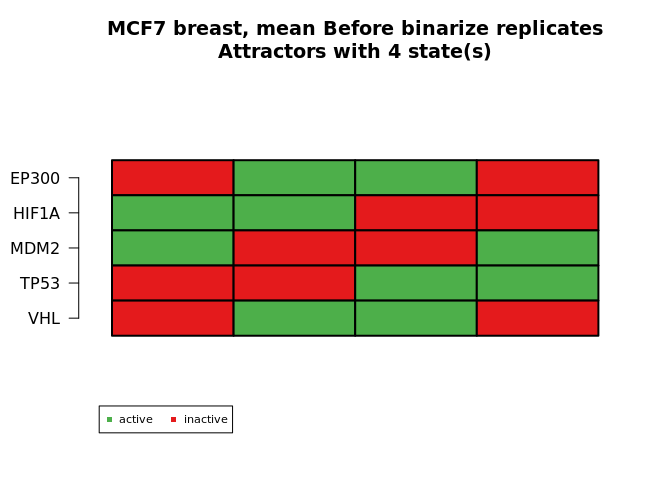
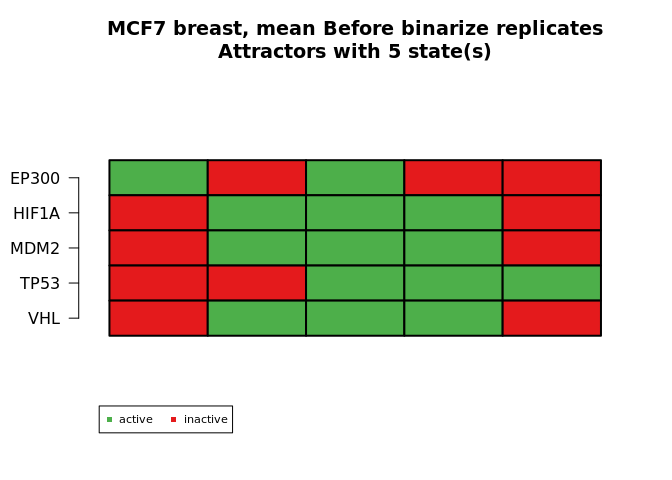
Up.

Changed region(s): [[0.1562, 0.3125, 0.9062, 0.7188], [0.5625, 0.0938, 0.5938, 0.125]]

diff --git a/workflow_boolnet/BoolNetInference_GSE47533.md b/workflow_boolnet/BoolNetInference_GSE47533.md
@@ -503,11 +503,11 @@ print(meanBin.net)
 try({
 sink("../data/ATOTS_inferred_GSE47533_meanBin.bn")
 cat("targets, factors\n")
-cat("EP300, (!TP53 | HIF1A) \n")
-cat("HIF1A,  !EP300 \n")
-cat("MDM2, (TP53 | !HIF1A)\n")
-cat("TP53, EP300\n")
-cat("VHL, (!TP53 | HIF1A)\n")
+cat("EP300, (!TP53 & VHL) | (TP53 & !VHL)  \n")
+cat("HIF1A,  (!TP53) | (EP300) \n")
+cat("MDM2, (!TP53) | (EP300)\n")
+cat("TP53, (VHL) | (HIF1A)\n")
+cat("VHL, (!TP53) |(EP300)\n")
 sink()}, silent = T)
 ```
 
@@ -522,11 +522,11 @@ print(net)
     ## EP300 HIF1A MDM2 TP53 VHL
     ## 
     ## Transition functions:
-    ## EP300 = (!TP53 | HIF1A)
-    ## HIF1A = !EP300
-    ## MDM2 = (TP53 | !HIF1A)
-    ## TP53 = EP300
-    ## VHL = (!TP53 | HIF1A)
+    ## EP300 = (!TP53 & VHL) | (TP53 & !VHL)
+    ## HIF1A = (!TP53) | (EP300)
+    ## MDM2 = (!TP53) | (EP300)
+    ## TP53 = (VHL) | (HIF1A)
+    ## VHL = (!TP53) |(EP300)
 
 ``` r
 attr.syn <- getAttractors(net, type = "synchronous")
@@ -535,13 +535,13 @@ plotAttractors(attr.syn, title = "MCF7 breast, mean Before binarize replicates")
 
 ![](figs/GSE47533-unnamed-chunk-14-1.png)<!-- -->
 
-    ## $`4`
-    ##       Attr1.1 Attr1.2 Attr1.3 Attr1.4
-    ## EP300       0       1       1       0
-    ## HIF1A       1       1       0       0
-    ## MDM2        1       0       0       1
-    ## TP53        0       0       1       1
-    ## VHL         0       1       1       0
+    ## $`5`
+    ##       Attr1.1 Attr1.2 Attr1.3 Attr1.4 Attr1.5
+    ## EP300       1       0       1       0       0
+    ## HIF1A       0       1       1       1       0
+    ## MDM2        0       1       1       1       0
+    ## TP53        0       0       1       1       1
+    ## VHL         0       1       1       1       0
 
 # Mean AFTER binarize the replicates of breast cancer net :
 
